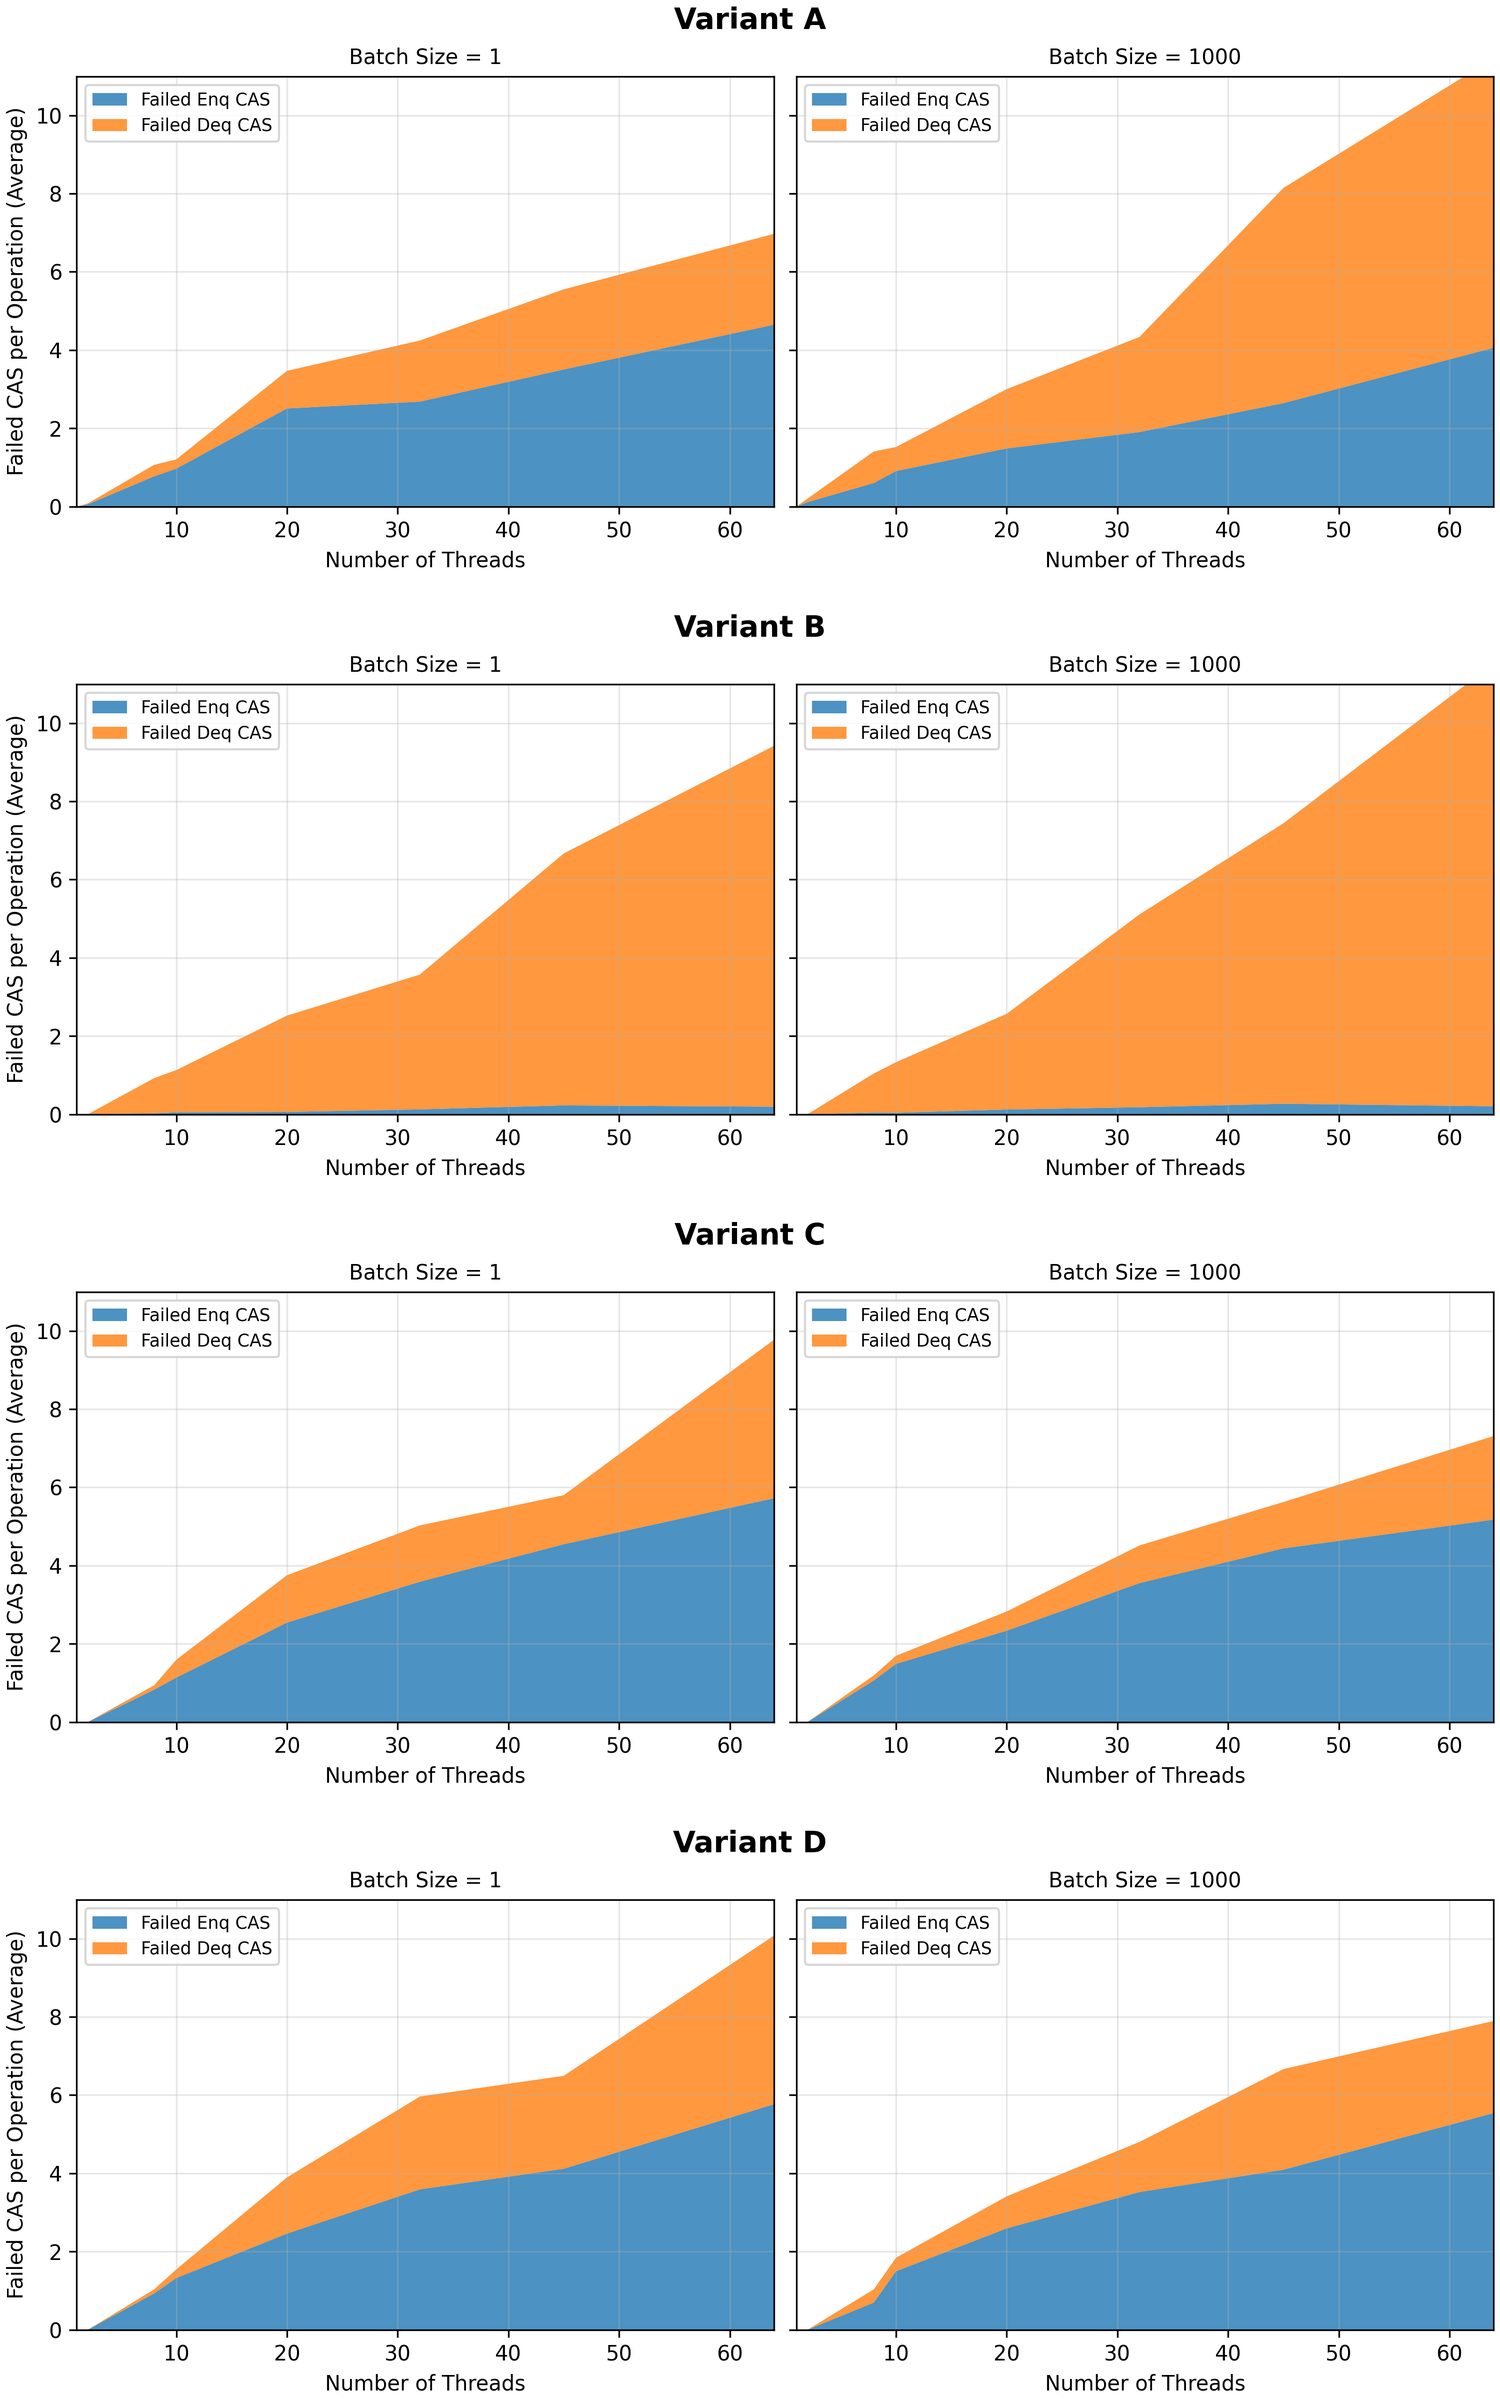
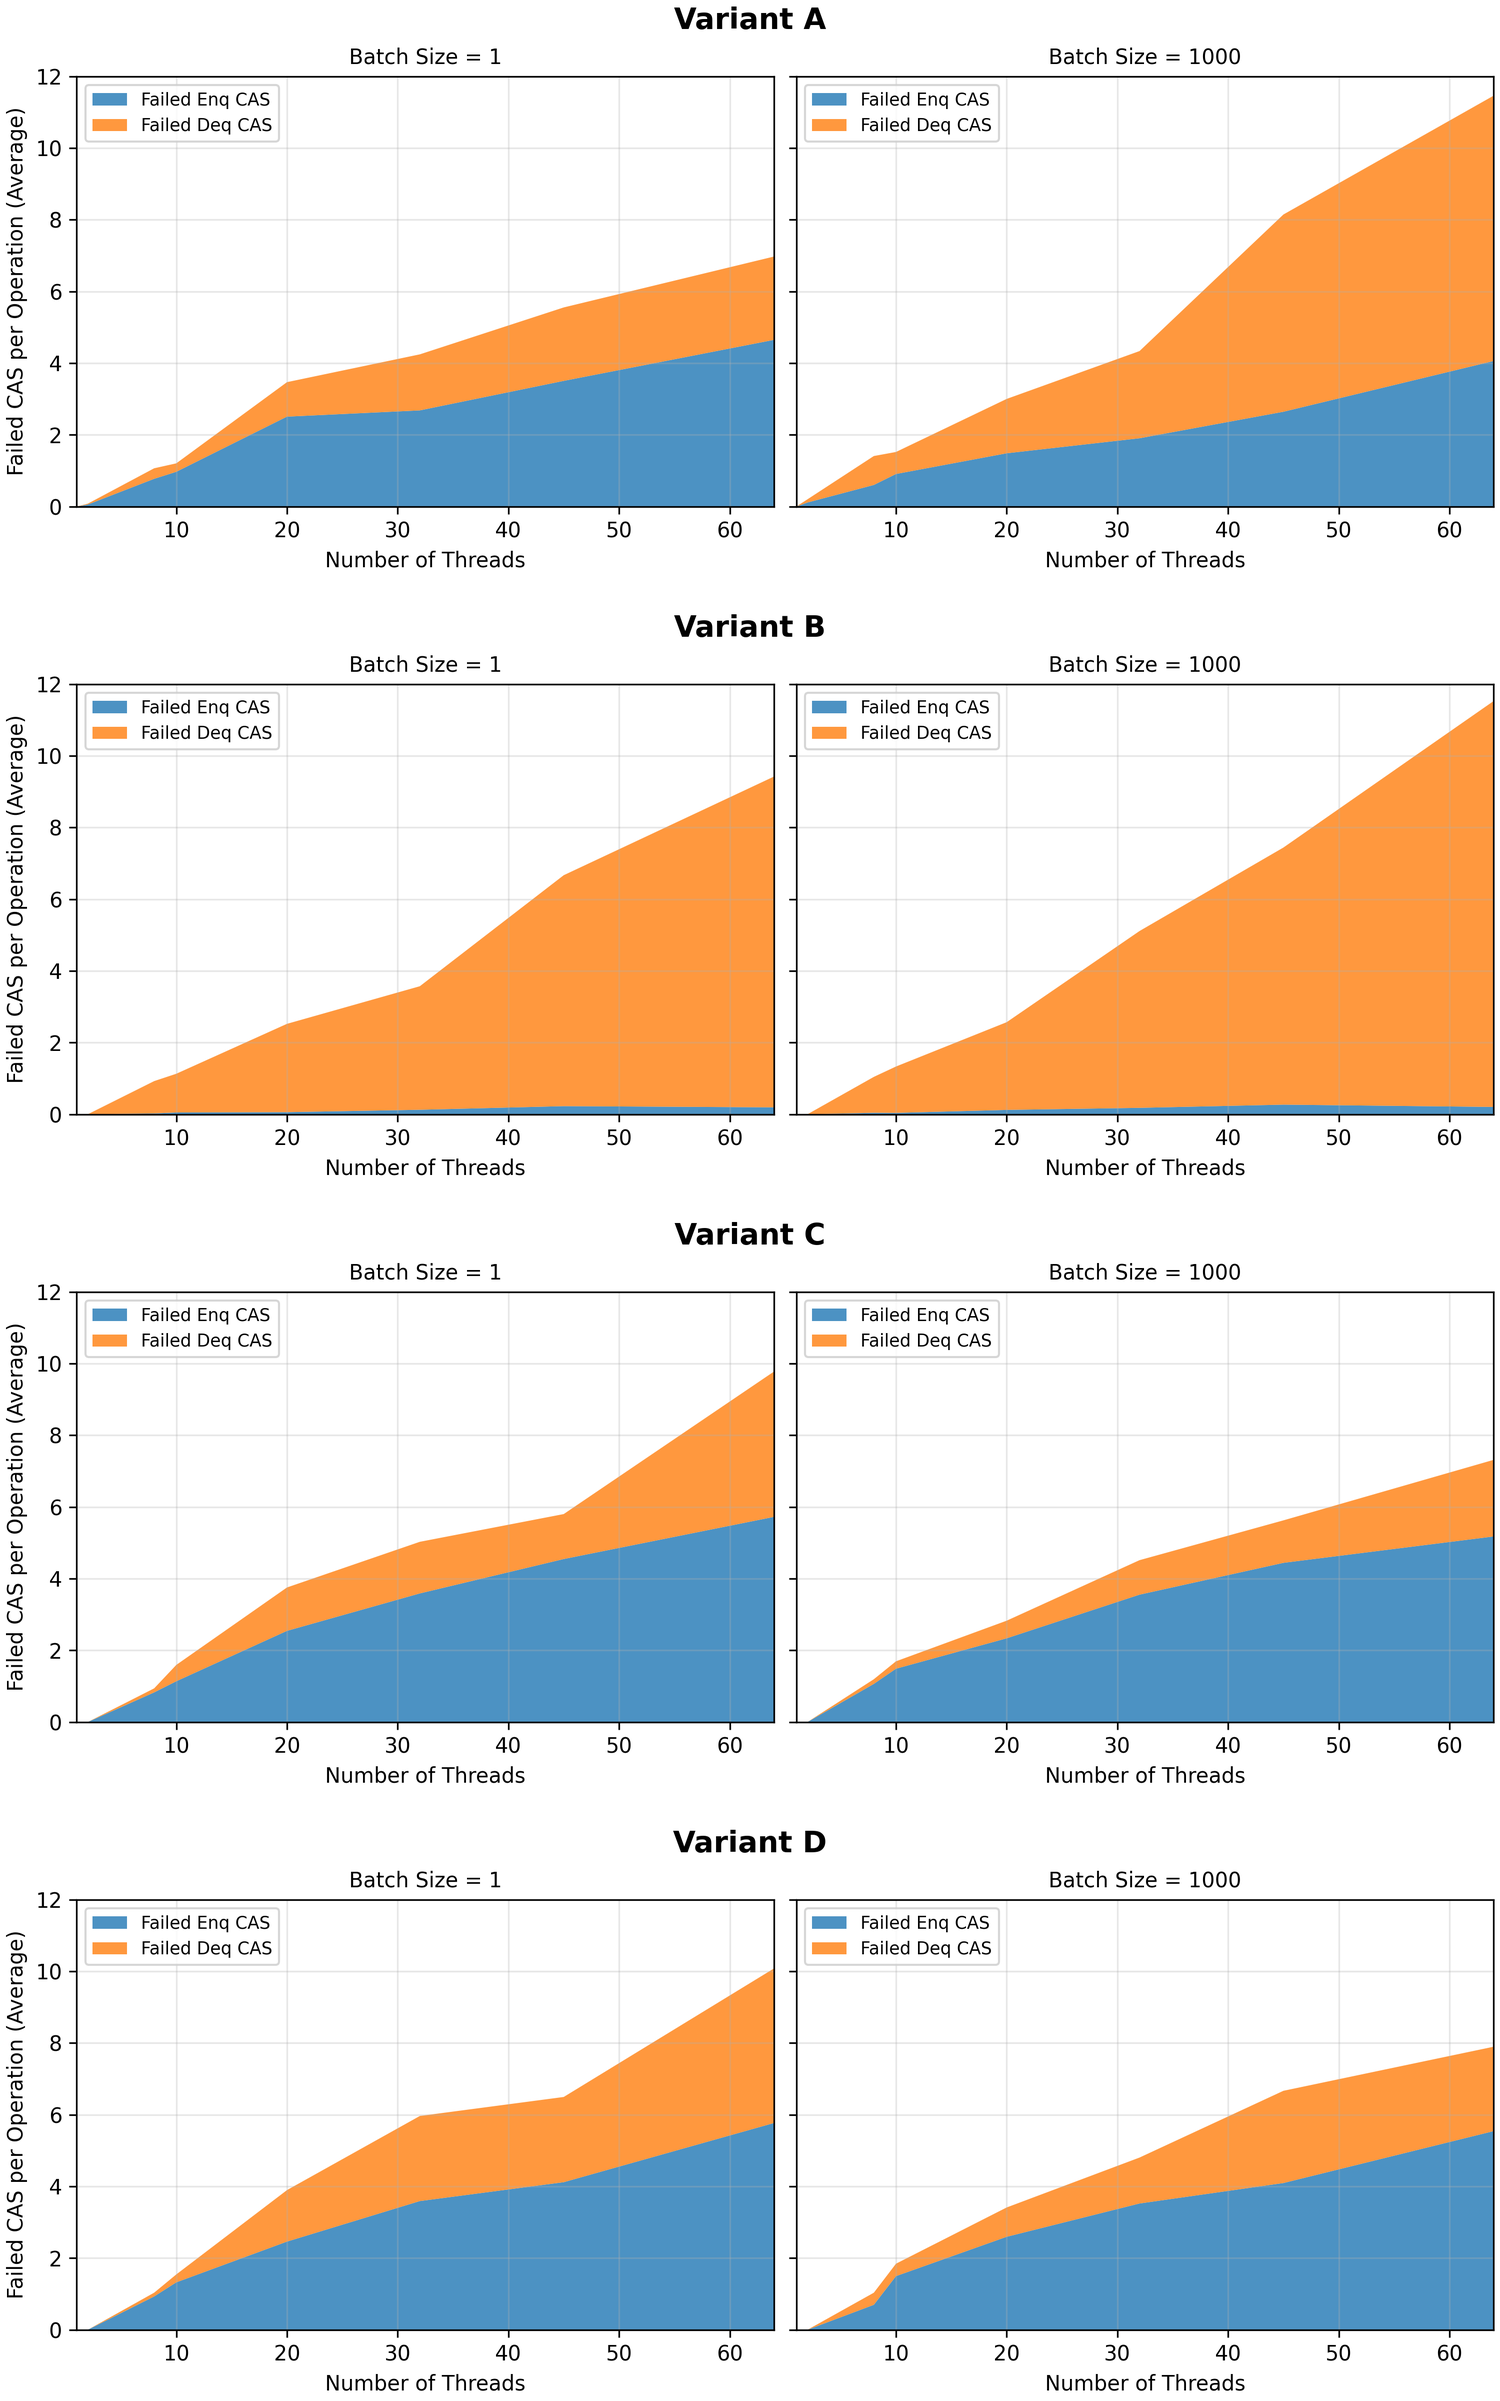
two new plots

diff --git a/project_skeleton/src/plot.py b/project_skeleton/src/plot.py
@@ -389,7 +389,7 @@ def plot_failed_cas_stack(run_df: pd.DataFrame, out_path: Path):
             # _set_thread_axis(ax)
             ax.set_xlim(1, 64)
             ax.margins(x=0)
-            ax.set_ylim(0, 11)
+            ax.set_ylim(0, 12)
             if batch == 1:
                 ax.set_ylabel("Failed CAS per Operation (Average)")
             _safe_legend(ax, loc='upper left', fontsize='small')
